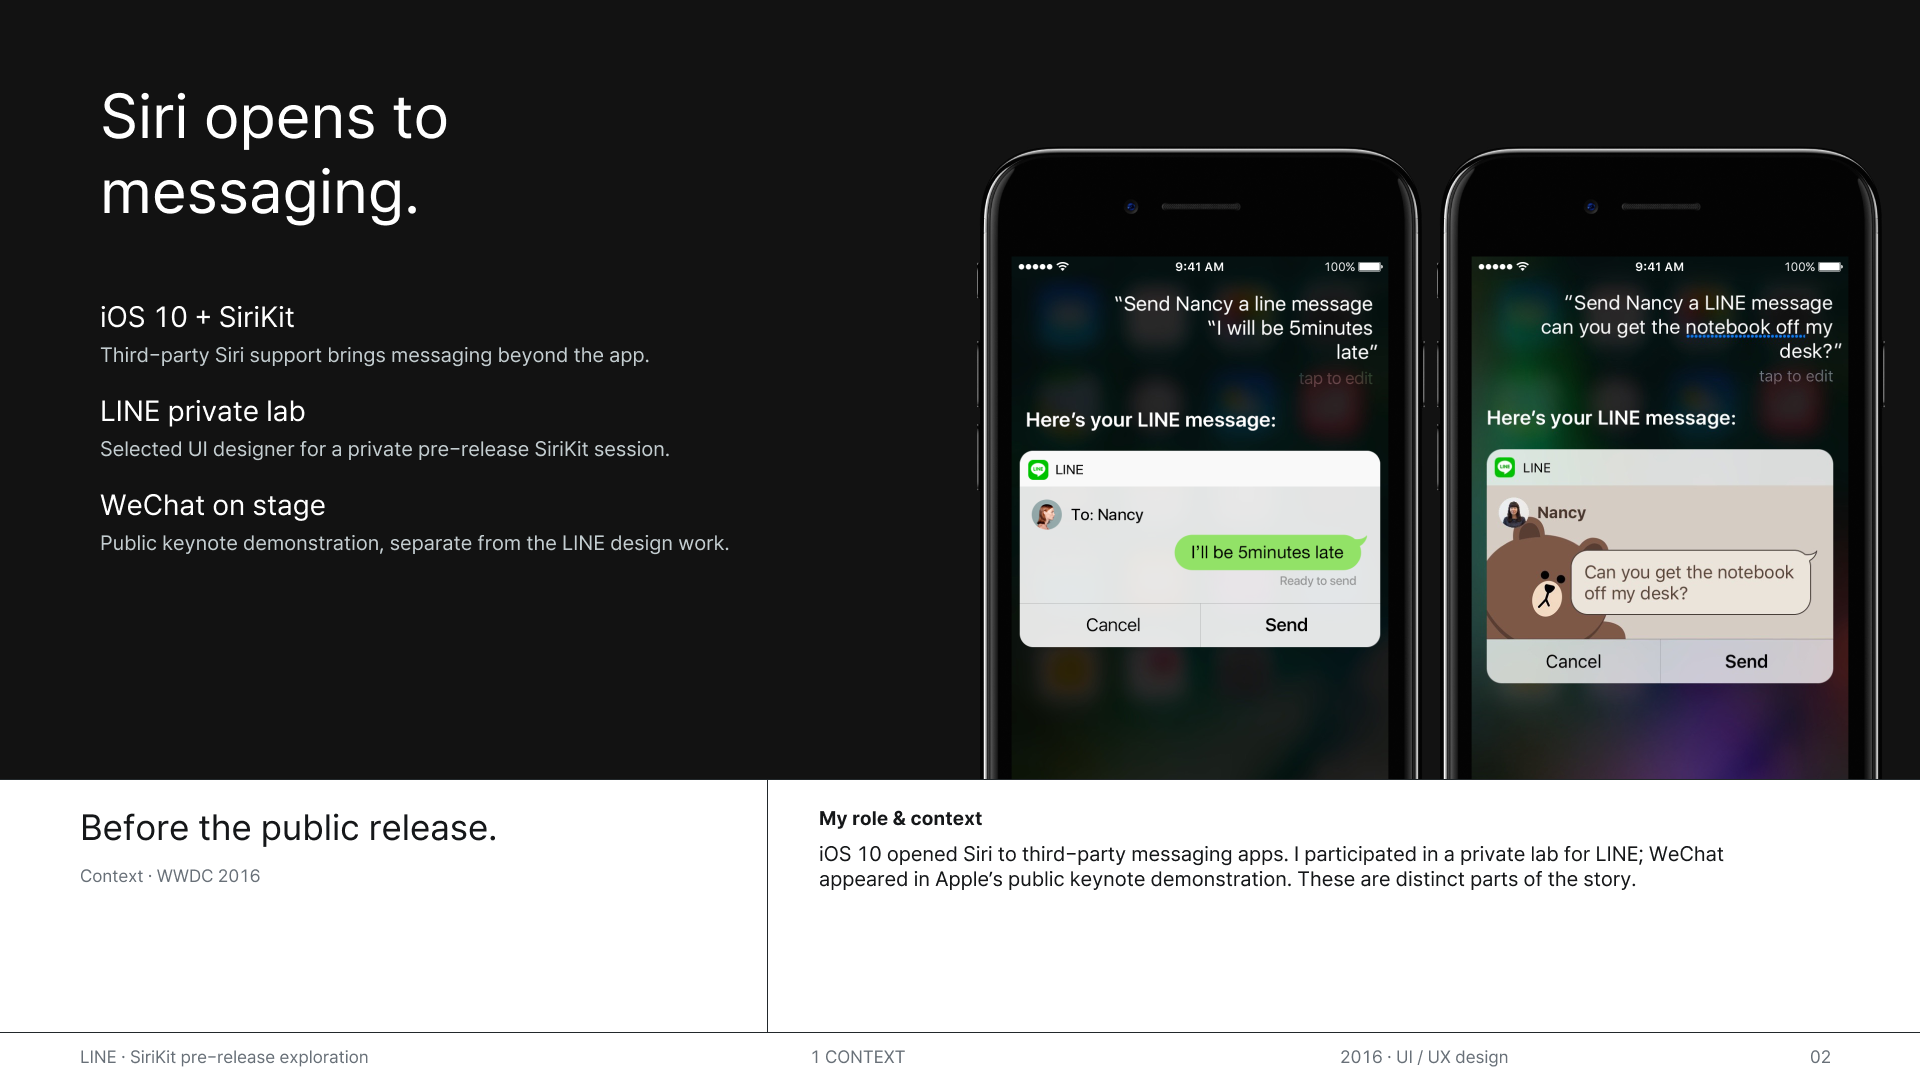
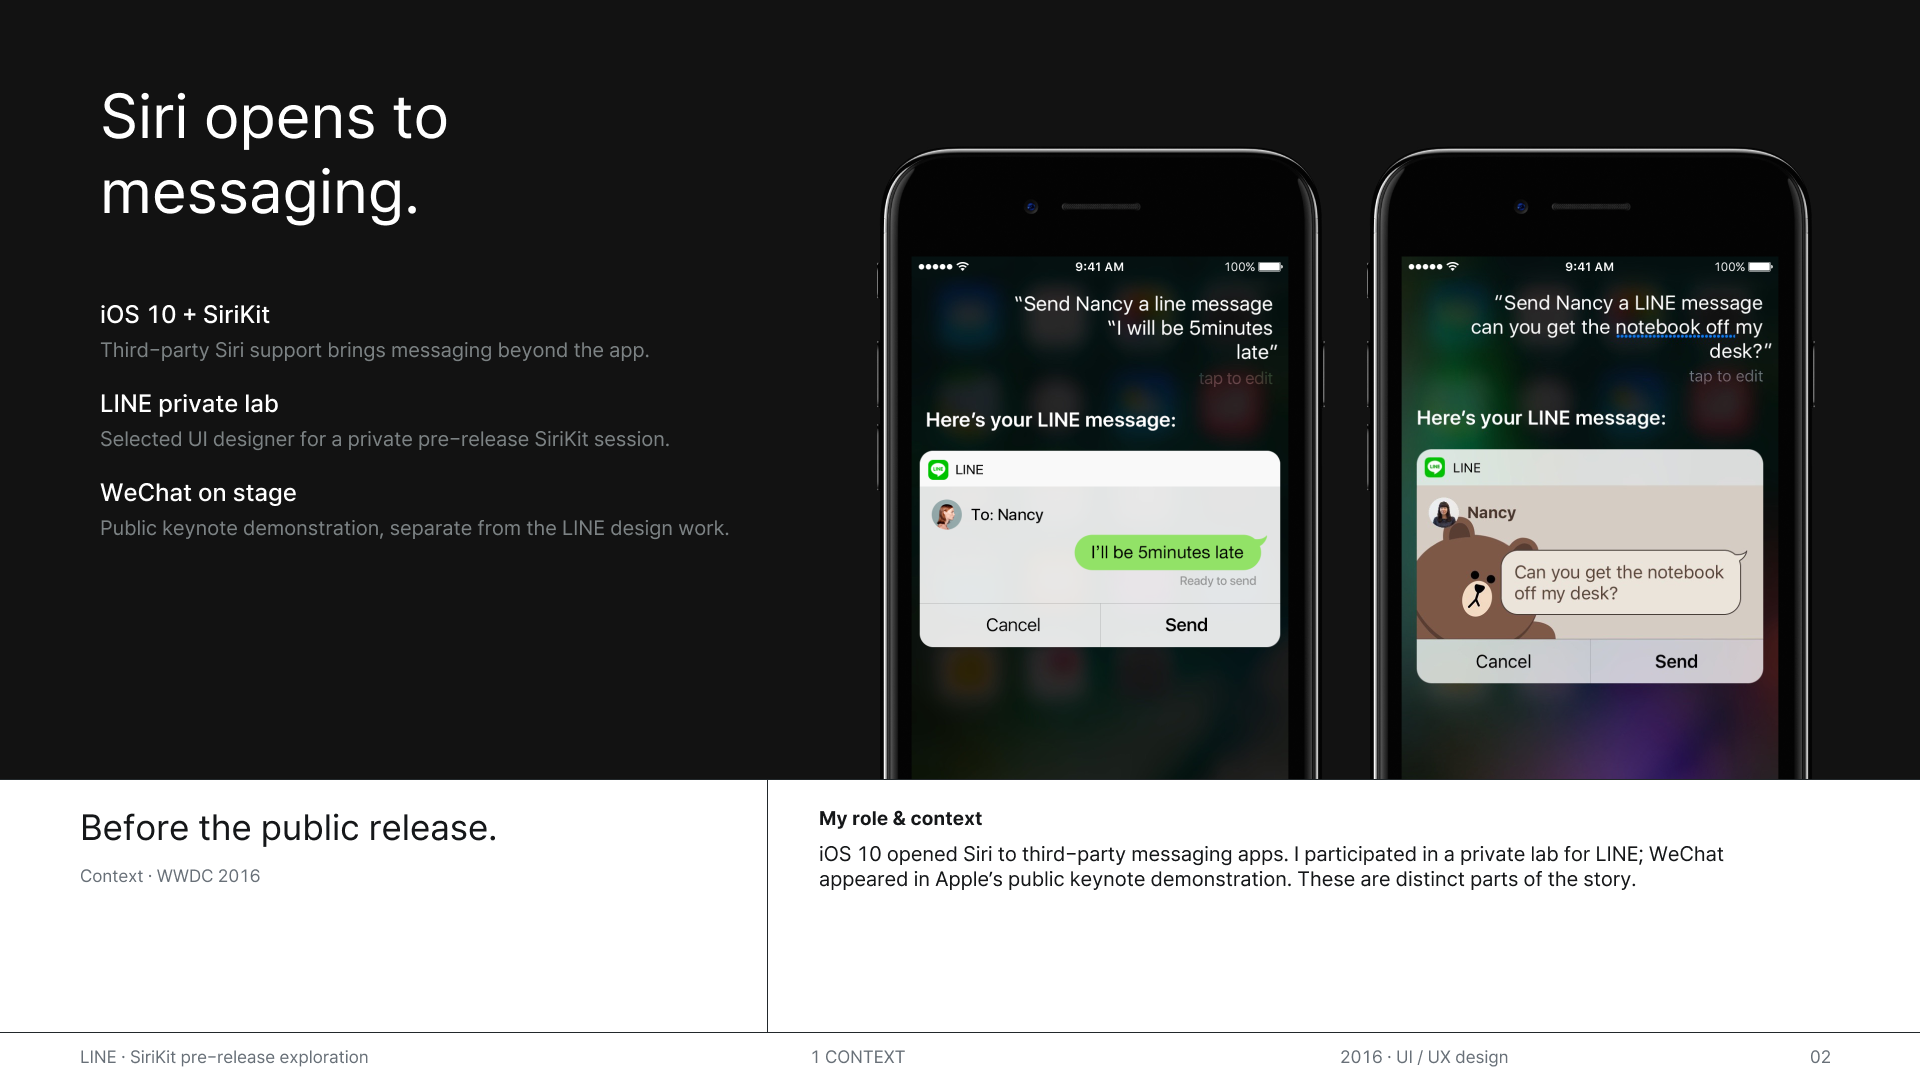
Refresh LINE slides with seasonal Siri themes

diff --git a/index.html b/index.html
@@ -324,7 +324,7 @@
 <script src="domino-zoom.js?v=mobile-memory-1"></script>
 <script src="domino-background.js?v=2074-2"></script>
 <script src="assets/vendor/siriwave/siriwave-2.4.0.js"></script>
-<script src="siri-story.js?v=20261019-layered"></script>
+<script src="siri-story.js?v=20261019-themes"></script>
 <script src="samsung-workspace.js?v=digital-twin-1"></script>
 <script src="samsung-governance.js?v=neutral-controls-1"></script>
 <script src="samsung-story.js?v=digital-twin-1"></script>
@@ -391,13 +391,15 @@ const CASES = [
     lead:'Selected as a UI designer to participate in an onsite private session lab at Apple in Cupertino, I worked on integrating a pre-release version of SiriKit into LINE messenger.',
     role:'Role · UI / UX design, voice interaction · SiriKit exploration, 2016',
     outcomeLabel:'Impact',
-    stats:[['1 of 2','Selected LINE representatives: a UI designer from the Korea office and a software engineer from the Japan office.'],['At Apple','Private onsite SiriKit lab participation in Cupertino.']],
+    stats:[['1 of 2','Selected LINE representatives: a UI designer from the Korea office and a software engineer from the Japan office.'],['at Apple','Private onsite SiriKit lab participation in Cupertino.']],
     blocks:[
       {tag:'Background · WWDC 2016', h:'Siri opens to third-party apps', p:'The types of apps that can take advantage of the newly opened Siri.', credit:'Credit: Andrew Cunningham', src:'assets/line/siri-background.svg', alt:'WWDC presentation listing Siri-enabled app categories: Messaging, VoIP calling, Payments, Ride booking, Photo search, and Workouts. Photo by Andrew Cunningham.'},
       {tag:'Background · 2016 SiriKit', h:'Supported Domains', p:'To make use of SiriKit, your app has to be in one or more of the following domains:', bullets:['VoIP calling (for example, Skype)','Messaging (WhatsApp)','Payments (Square, PayPal)','Photo (Photos)','Workouts (Runtastic)','Ride booking (Uber, Lyft)','CarPlay (automotive vendors only)','Restaurant reservations (requires additional support from Apple)'], textOnly:true},
       {tag:'Siri for LINE', h:'Before the public release', p:'In 2016, Apple opened Siri to third-party apps through SiriKit, including messaging. I participated as a selected UI designer in a private pre-release lab for LINE. WeChat was shown in the public WWDC keynote. The original LINE designs below document my separate pre-release exploration.', from:'LINE Siri 02', src:'assets/decks/LINE Siri 02.png', demo:{href:'https://www.youtube.com/watch?v=n5jXg_NNiCA',label:'Watch the WWDC 2016 reference',note:'Public WeChat demonstration. The LINE proposal was separate private-lab work.'}},
       {tag:'Siri for LINE', h:'Speak. Review. Send.', voiceFeature:true, p:'A spoken request becomes a message the person can review before sending. The original LINE screens show the request, message review, and sent confirmation, carrying familiar LINE themes into the Siri interaction.', from:'LINE Siri 03', src:'assets/decks/LINE Siri 03.png'},
       {tag:'Siri for LINE', h:'Clear intent. Visible control.', p:'The original designs keep the recipient and message together, preserve LINE’s familiar visual language, and separate Cancel from Send. Variations explore short and long messages, contact presentation, and themed message cards.', from:'LINE Siri 04', src:'assets/decks/LINE Siri 04.png'},
+      {tag:'Seasonal theme', h:'Spring, carried into Siri.', p:'Cherry-blossom artwork from the original 2016 LINE chat design is adapted to the Siri message card, carrying the seasonal theme into a focused review experience.', from:'LINE Siri 05', src:'assets/decks/LINE Siri 05.png', alt:'Original cherry-blossom LINE chat and a Siri message-card adaptation using the same PSD artwork'},
+      {tag:'Sky theme', h:'One theme, across every state.', p:'The original sky-background screens preserve LINE’s visual identity through message review, sent confirmation, and cancellation.', from:'LINE Siri 06', src:'assets/decks/LINE Siri 06.png', alt:'Original sky-background LINE Siri screens showing review, sent, and canceled states'},
     ]},
   { slug:'leadership', meta:'Leadership', title:'Strategy & organizational leadership', line:'Shared priorities, clear expectations, coordinated delivery, visible progress. The systems a team runs on.',
     kvHero:'assets/decks/EN · 50.png',
@@ -516,14 +518,14 @@ const DECKS = {
     chapters:[["1 Discover",0],["2 Product strategy",6],["3 Delivery & impact",8],["4 Account strategy",12],["5 Delivery & metrics",18]] },
   'meta': { previews:['EN · 42','EN · 43','EN · 46'], slides:["EN · 39","EN · 40","ML3","ML6","EN · 41","EN · 42","EN · 43","EN · 44","EN · 45","EN · 46","EN · 47"],
     chapters:[["1 Understanding",0],["2 Planning",2],["3 Research",4],["4 Design solution",7]] },
-  'line': { previews:['LINE Siri 01','LINE Siri 02','LINE Siri 03'], slides:["LINE Siri 01","LINE Siri 02","LINE Siri 03","LINE Siri 04"],
+  'line': { previews:['LINE Siri 01','LINE Siri 02','LINE Siri 03'], slides:["LINE Siri 01","LINE Siri 02","LINE Siri 03","LINE Siri 04","LINE Siri 05","LINE Siri 06"],
     chapters:[["Siri for LINE",0]] },
   'leadership': { slides:["EN · 48","EN · 49","EN · 50","EN · 51","EN · 52","EN · 53","EN · 54"],
     chapters:[["1 Principles",0],["2 Operating model",2],["3 Shared context",5]] }
 };
 const META_SOLUTIONS = [{"key":"upcoming","title":"CTA for Upcoming 1:1s","description":"Start from an upcoming meeting. Open the shared 1:1 note directly from Home, so preparation begins in the flow of the workday.","src":"assets/meta/solution-upcoming.png"},{"key":"event-notes","title":"Event details with 1:1 notes","description":"Keep the meeting and its shared notes together. Review the agenda from event details before joining the conversation.","src":"assets/meta/solution-event-notes.png"},{"key":"quick-editor","title":"Quick editor","description":"Add or update talking points in place. A focused editor makes it easy to capture context without leaving the meeting flow.","src":"assets/meta/solution-quick-editor.png"},{"key":"discover","title":"Discover & Add your 1:1s","description":"Find existing 1:1s and create a new one from a single list. Recurring conversations stay easy to return to.","src":"assets/meta/solution-discover.png"}];
 const DECK_BASE = 'assets/decks/';
-const DECK_REVISION = '20261019-line-siri-bottom';
+const DECK_REVISION = '20261019-line-siri-themes';
 const slideSrc = name => DECK_BASE + encodeURIComponent(name) + '.png?v=' + DECK_REVISION;
 // Video bounds in the original 1920×1080 Figma frames.
 const SLIDE_VIDEOS = {

diff --git a/siri-story.js b/siri-story.js
@@ -3,7 +3,7 @@
 window.SiriStory = (() => {
   const base = 'assets/line/';
   const layers = [
-    [-645,-70,520,'short'],[-323,-245,740,'review'],[0,-327,450,'sent'],
+    [-645,-70,520,'short'],[-323,-245,740,'sky'],[0,-327,450,'sent'],
     [323,-175,620,'theme-b'],[645,-268,480,'alternate-review'],[-645,567,480,'theme-c'],
     [-323,392,600,'listening'],[0,585,360,'request'],[323,500,600,'alternate-sent'],[645,430,480,'long']
   ];
@@ -25,10 +25,8 @@ window.SiriStory = (() => {
   function renderVoice(){
     return `<section class="siri-voice" data-siri-voice aria-labelledby="siri-voice-title">
       <div class="wrap siri-voice-inner">
-        <span class="siri-eyebrow">Siri for LINE</span>
         <h2 id="siri-voice-title">A message starts<br>with your voice.</h2>
         <p class="siri-voice-lead">Say who it is for and what you want to say. Siri turns the request into a LINE message you can review before sending.</p>
-        <blockquote>“Send a LINE to Nancy<br>saying ‘I'll be five minutes late.’”</blockquote>
         <div class="siri-voice-steps">
           <div><span>01</span><h3>Speak naturally.</h3><p>Name the app, the person, and the message in a single request.</p></div>
           <div><span>02</span><h3>Review the message.</h3><p>Keep the recipient and message together, so the intent stays visible.</p></div>

diff --git a/README.md b/README.md
@@ -90,9 +90,11 @@ The header uses the same side gutters as the main content, respecting device saf
 
 The existing `#/work/line` route presents Siri for LINE. AI Speaker, Group Call and its usage metric are excluded.
 
-Four `LINE Siri 01–04` slides in [Interview Deck · AI Strategy](https://www.figma.com/design/XsDIEcceMNRpfouwbhCh6I/2026?node-id=2397-410) reuse the 1920×1080 template, Domino Sans typography, dark visual field, lower caption columns, and footer. Nodes: `2397:410`, `2397:482`, `2397:534`, `2397:650`. Website PNG exports are 1920×1080. Slide typography remains editable; the original UI screens are preserved as image assets.
+Six `LINE Siri 01–06` slides in [Interview Deck · AI Strategy](https://www.figma.com/design/XsDIEcceMNRpfouwbhCh6I/2026?node-id=2397-410) reuse the 1920×1080 template, Domino Sans typography, dark visual field, lower caption columns, and footer. Nodes: `2397:410`, `2397:482`, `2397:534`, `2397:650`, `2548:17438`, `2548:17487`. Website PNG exports are 1920×1080. Slide typography remains editable; the original UI screens are preserved as image assets.
 
-The final design source is the `siri apps` section `2523:58941`. The hero includes ten native 750×1334 screens in `assets/line/siri-final-*.png`: listening (`2523:58958`), request/review/sent (`2523:58959–58961`), alternate conversation/list (`2523:58962–58963`), short/long messages (`2523:58966`, `2523:58968`), and themes B/C (`2523:58946`, `2523:58949`). The source section and hero scroll geometry are unchanged. All four slides use the original black iPhone 7 photo from the voice demonstration; original UI images remain separate layers.
+The final design source is the `siri apps` section `2523:58941`. The hero includes ten native 750×1334 screens in `assets/line/siri-final-*.png`: listening (`2523:58958`), request/sent (`2523:58959`, `2523:58961`), sky review (`2523:58937`), alternate conversation/list (`2523:58962–58963`), short/long messages (`2523:58966`, `2523:58968`), and themes B/C (`2523:58946`, `2523:58949`). The source section and hero scroll geometry are unchanged. All six slides use the original black iPhone 7 photo from the voice demonstration; original UI images remain separate layers.
+
+Slide 05 pairs the original cherry-blossom chat from `0619_WWDC16/@@DesignFinal/psd/a_04_defaults_chatroom.psd` with a new Siri card adaptation. Its seasonal background is cropped from the PSD’s `Layer 1093`; the card’s text remains editable in Figma. Slide 06 preserves the original sky-themed `original_line04`, `original_line02`, and `original_line01` screenshots (`2523:58937`, `2523:58939`, `2523:58940`) for review, sent, and canceled states.
 
 The homepage cover renders the Siri waveform. Immediately before Supported Domains, the voice demonstration keeps the status bar fixed, types the spoken request, then eases the LINE review card upward. Its 12-second loop has an accessible icon-only pause control. Animation stops offscreen and in hidden tabs; reduced motion shows the complete review. Route changes dispose of the waveform and animation listeners.
 
